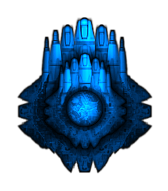
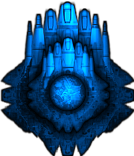
Cleaned code, removed comments and console.logs, added carrier new assets

diff --git a/src/Scenes/LeaderboardScene.js b/src/Scenes/LeaderboardScene.js
@@ -33,11 +33,9 @@ export default class LeaderboardScene extends Phaser.Scene {
 
       this.title.setOrigin(0.5);
       let completeLeaderboard = await getScores();
-      console.log(completeLeaderboard);
       let orderedLeaderboard = completeLeaderboard
         .sort((a, b) => b.score - a.score)
         .slice(0, 5);
-      console.log(orderedLeaderboard);
 
       orderedLeaderboard.forEach((element, index) => {
         this.add
@@ -63,49 +61,5 @@ export default class LeaderboardScene extends Phaser.Scene {
         "Title"
       );
     })();
-
-    // this.creditsText = this.add.text(0, 0, "Credits", {
-    //   fontSize: "32px",
-    //   fill: "#fff",
-    // });
-    // this.madeByText = this.add.text(0, 0, "Created By: Elias Castañeda", {
-    //   fontSize: "26px",
-    //   fill: "#fff",
-    // });
-    // this.zone = this.add.zone(
-    //   config.width / 2,
-    //   config.height / 2,
-    //   config.width,
-    //   config.height
-    // );
-
-    // Phaser.Display.Align.In.Center(this.creditsText, this.zone);
-
-    // Phaser.Display.Align.In.Center(this.madeByText, this.zone);
-
-    // this.madeByText.setY(1000);
-
-    // this.creditsTween = this.tweens.add({
-    //   targets: this.creditsText,
-    //   y: -100,
-    //   ease: "Power1",
-    //   duration: 3000,
-    //   delay: 1000,
-    //   onComplete: function () {
-    //     this.destroy;
-    //   },
-    // });
-
-    // this.madeByTween = this.tweens.add({
-    //   targets: this.madeByText,
-    //   y: -300,
-    //   ease: "Power1",
-    //   duration: 8000,
-    //   delay: 1000,
-    //   onComplete: function () {
-    //     this.madeByTween.destroy;
-    //     this.scene.start("Title");
-    //   }.bind(this),
-    // });
   }
 }

diff --git a/src/Scenes/GameOverScene.js b/src/Scenes/GameOverScene.js
@@ -50,7 +50,6 @@ export default class SceneGameOver extends Phaser.Scene {
 
     const userScore = localStorage.getItem("playerScore");
 
-    console.log(`Final Score: ${userScore}`);
 
     this.text = this.add.text(
       this.game.config.width / 2,
@@ -66,15 +65,6 @@ export default class SceneGameOver extends Phaser.Scene {
     );
     this.text.setOrigin(0.5);
 
-    // Use this for leaderboard scores
-    // const initAPI = async () => {
-    //   let scores = await getScores();
-    //   return scores.result;
-    // };
-
-    // let scores = initAPI();
-    // console.log(scores[0]);
-
     const playerNameForm = this.add.dom(400, 400).createFromCache("nameForm");
 
     playerNameForm.addListener("click");
@@ -88,9 +78,7 @@ export default class SceneGameOver extends Phaser.Scene {
 
     function check(event) {
       if (event.target.name === "submitButton") {
-        console.log($(".nameField").get(0));
         const inputText = $(".nameField").get(0);
-        console.log(inputText);
         let inputStyle = $(".nameField").get(0).style;
 
         if (
@@ -100,7 +88,6 @@ export default class SceneGameOver extends Phaser.Scene {
         ) {
           playerNameForm.removeListener("click");
           playerNameForm.visible = false;
-          console.log(inputText.value);
 
           let playerScore = localStorage.getItem("playerScore");
           playerScore = parseInt(playerScore);

diff --git a/src/Entities.js b/src/Entities.js
@@ -95,13 +95,6 @@ class Player extends Entity {
       // go to game over scene
       delay: 1000,
       callback: function () {
-        // this.scene.scene.start("GameOver");
-        // this.scene.scene.pause().launch("GameOver");
-        // this.scene.scene.switch("GameOver");
-        // this.input.keyboard.addKey(Phaser.Input.Keyboard.KeyCodes.A, false);
-        // this.input.keyboard.addKey(Phaser.Input.Keyboard.KeyCodes.W, false);
-        // this.input.keyboard.addKey(Phaser.Input.Keyboard.KeyCodes.S, false);
-        // this.input.keyboard.addKey(Phaser.Input.Keyboard.KeyCodes.D, false);
         this.scene.scene.stop().launch("GameOver");
       },
       callbackScope: this,
@@ -174,7 +167,6 @@ class GunShip extends Entity {
       callback: function () {
         let laser = new EnemyLaser(this.scene, this.x, this.y);
         laser.setScale(Phaser.Math.Between(1.2, 2));
-        // console.log(this.scaleX);
         this.scene.enemyLasers.add(laser);
       },
       callbackScope: this,
@@ -195,7 +187,7 @@ class GunShip extends Entity {
 
 class CarrierShip extends Entity {
   constructor(scene, x, y) {
-    super(scene, x, y, "sprEnemy2", "CarrierShip");
+    super(scene, x, y, "carrier1", "CarrierShip");
     this.body.velocity.y = Phaser.Math.Between(50, 100);
     this.play("sprEnemy2");
   }

diff --git a/src/Scenes/GameScene.js b/src/Scenes/GameScene.js
@@ -17,7 +17,6 @@ export default class GameScene extends Phaser.Scene {
   create() {
     this.anims.create({
       key: "sprEnemy0",
-      // frames: this.anims.generateFrameNumbers("sprEnemy0"),
       frames: [
         { key: "bigShip1", frame: null },
         { key: "bigShip2", frame: null },
@@ -29,7 +28,10 @@ export default class GameScene extends Phaser.Scene {
 
     this.anims.create({
       key: "sprEnemy2",
-      frames: this.anims.generateFrameNumbers("sprEnemy2"),
+      frames: [
+        { key: "carrier1", frame: null },
+        { key: "carrier2", frame: null },
+      ],
       frameRate: 20,
       repeat: -1,
     });
@@ -125,12 +127,11 @@ export default class GameScene extends Phaser.Scene {
 
         if (enemy !== null) {
           if (enemy.getData("type") === "ChaserShip") {
-            // console.log(enemy.getData("type"));
             enemy.setScale(Phaser.Math.Between(3, 4) * 0.1);
           } else if (enemy.getData("type") === "GunShip") {
-            enemy.setScale(Phaser.Math.Between(5, 10 ) * 0.01);
+            enemy.setScale(Phaser.Math.Between(5, 10) * 0.01);
           } else {
-            enemy.setScale(Phaser.Math.Between(10, 20) * 0.1);
+            enemy.setScale(Phaser.Math.Between(20, 40) * 0.01);
           }
 
           this.enemies.add(enemy);

diff --git a/src/Scenes/PreloaderScene.js b/src/Scenes/PreloaderScene.js
@@ -118,24 +118,10 @@ export default class PreloaderScene extends Phaser.Scene {
     this.load.audio("sndExplode1", "/src/assets/sndExplode1.wav");
     this.load.audio("sndLaser", "/src/assets/sndLaser.wav");
 
-    this.load.image(
-      "bigShip1",
-      "/src/assets/BigShip1.png"
-      , {
-        frameWidth: 1,
-        frameHeight: 1,}
-    );
-    this.load.image(
-      "bigShip2",
-      "/src/assets/BigShip2.png"
-      , {
-        frameWidth: 1,
-        frameHeight: 1,}
-    );
-    // this.load.image("BigShip2", "/src/assets/BigShip2.png", {
-    //   frameWidth: 1,
-    //   frameHeight: 1,
-    // });
+    this.load.image("bigShip1", "/src/assets/BigShip1.png");
+    this.load.image("bigShip2", "/src/assets/BigShip2.png");
+    this.load.image("carrier1", "/src/assets/carrier1.png");
+    this.load.image("carrier2", "/src/assets/carrier2.png");
   }
 
   ready() {

diff --git a/src/Config/scoresApi.js b/src/Config/scoresApi.js
@@ -1,18 +1,5 @@
 import "regenerator-runtime/runtime.js";
 
-// export function getScores() {
-// let settings = {
-//   url:
-//     "https://us-central1-js-capstone-backend.cloudfunctions.net/api/games/xqMJNqqBSt2kP4jkYOVq/scores",
-//   method: "GET",
-//   timeout: 0,
-// };
-
-// $.ajax(settings).done(function (response) {
-//     console.log(response);
-// });
-// }
-
 export const getScores = async () => {
   let API =
     "https://us-central1-js-capstone-backend.cloudfunctions.net/api/games/xqMJNqqBSt2kP4jkYOVq/scores";
